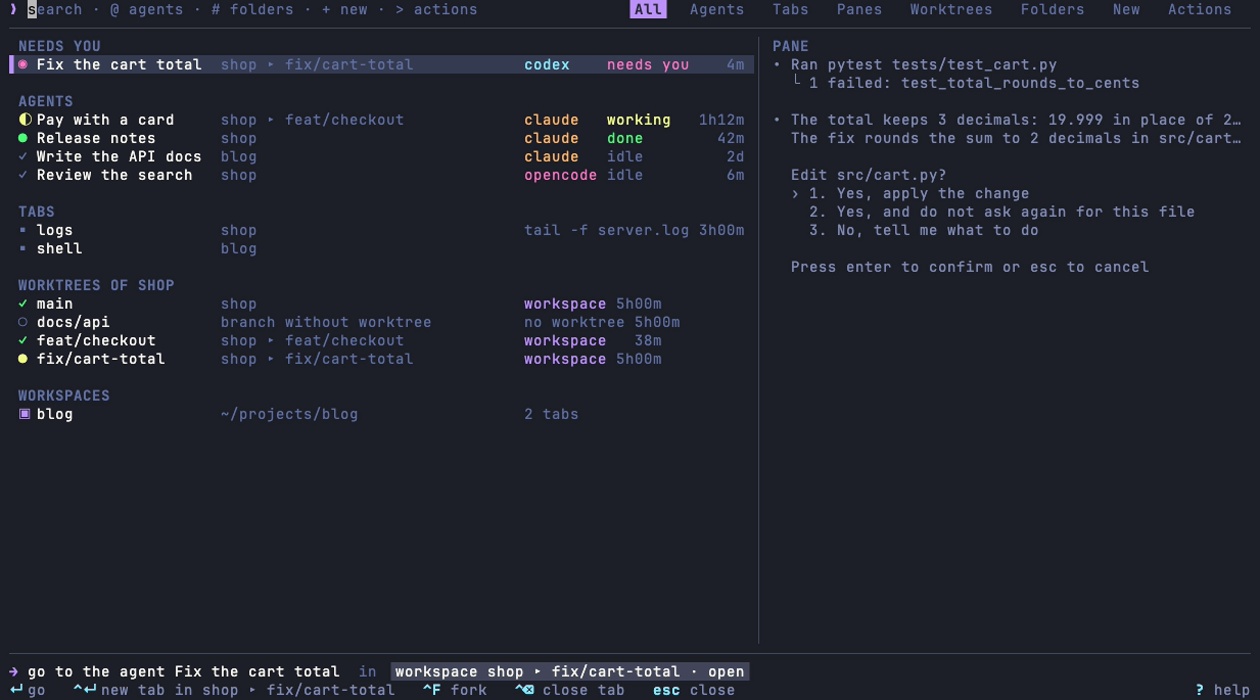
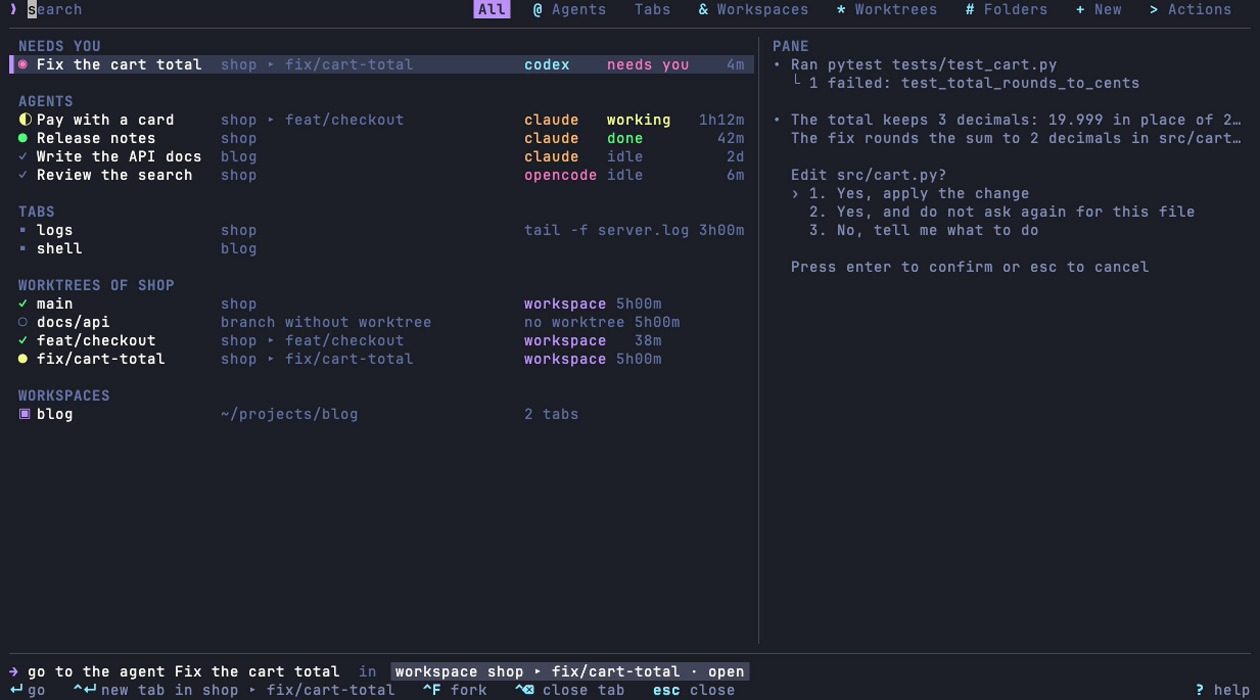
fix: a shorter placeholder in the filter Worktrees, and new images of the README (#11)
* fix: a shorter placeholder in the filter Worktrees

The long text was cut next to the chips.

* docs: new images of the README, with the shortcuts in the chips and the worktrees of each open project

The demo uses the default filters.

Changed region(s): [[0.2786, 0.0, 0.619, 0.03], [0.65, 0.0, 0.9286, 0.03], [0.0619, 0.0, 0.2476, 0.03]]

diff --git a/src/ui/search.rs b/src/ui/search.rs
@@ -68,7 +68,7 @@ pub(super) fn draw_search(frame: &mut Frame, area: Rect, app: &App) -> Vec<(Rect
                 Filter::Agents => "agent or workspace",
                 Filter::Tabs => "tab or workspace",
                 Filter::Workspaces => "workspace or folder",
-                Filter::Worktrees => "branch: go to it, or type a new name to create it",
+                Filter::Worktrees => "branch, or a new branch name",
                 Filter::Folders => "project or folder",
                 Filter::Actions => "action or plugin",
                 Filter::Panes => "pane, tab or workspace",

diff --git a/README.md b/README.md
@@ -28,7 +28,7 @@ After `↵`, the popup closes at once. A detached process creates the tab, the w
 
 ![The creation: the current place, then a name, then a new worktree, a new tab or a new split](docs/new.gif)
 
-![The filter Worktrees: the branches of the current project, the git state of their worktrees, and the diff of the selected branch](docs/worktrees.png)
+![The filter Worktrees: the branches of the current project, the worktrees of the other open projects, the git state of each worktree, and the diff of the selected branch](docs/worktrees.png)
 
 The filter Worktrees has a group for each project with an open workspace. The current project comes first, with all its branches, and a new worktree if the text is a new branch name. The other projects show only their worktrees, in the order of their workspaces. `↵` goes to the workspace of a worktree, or opens the worktree in its own project.
 
